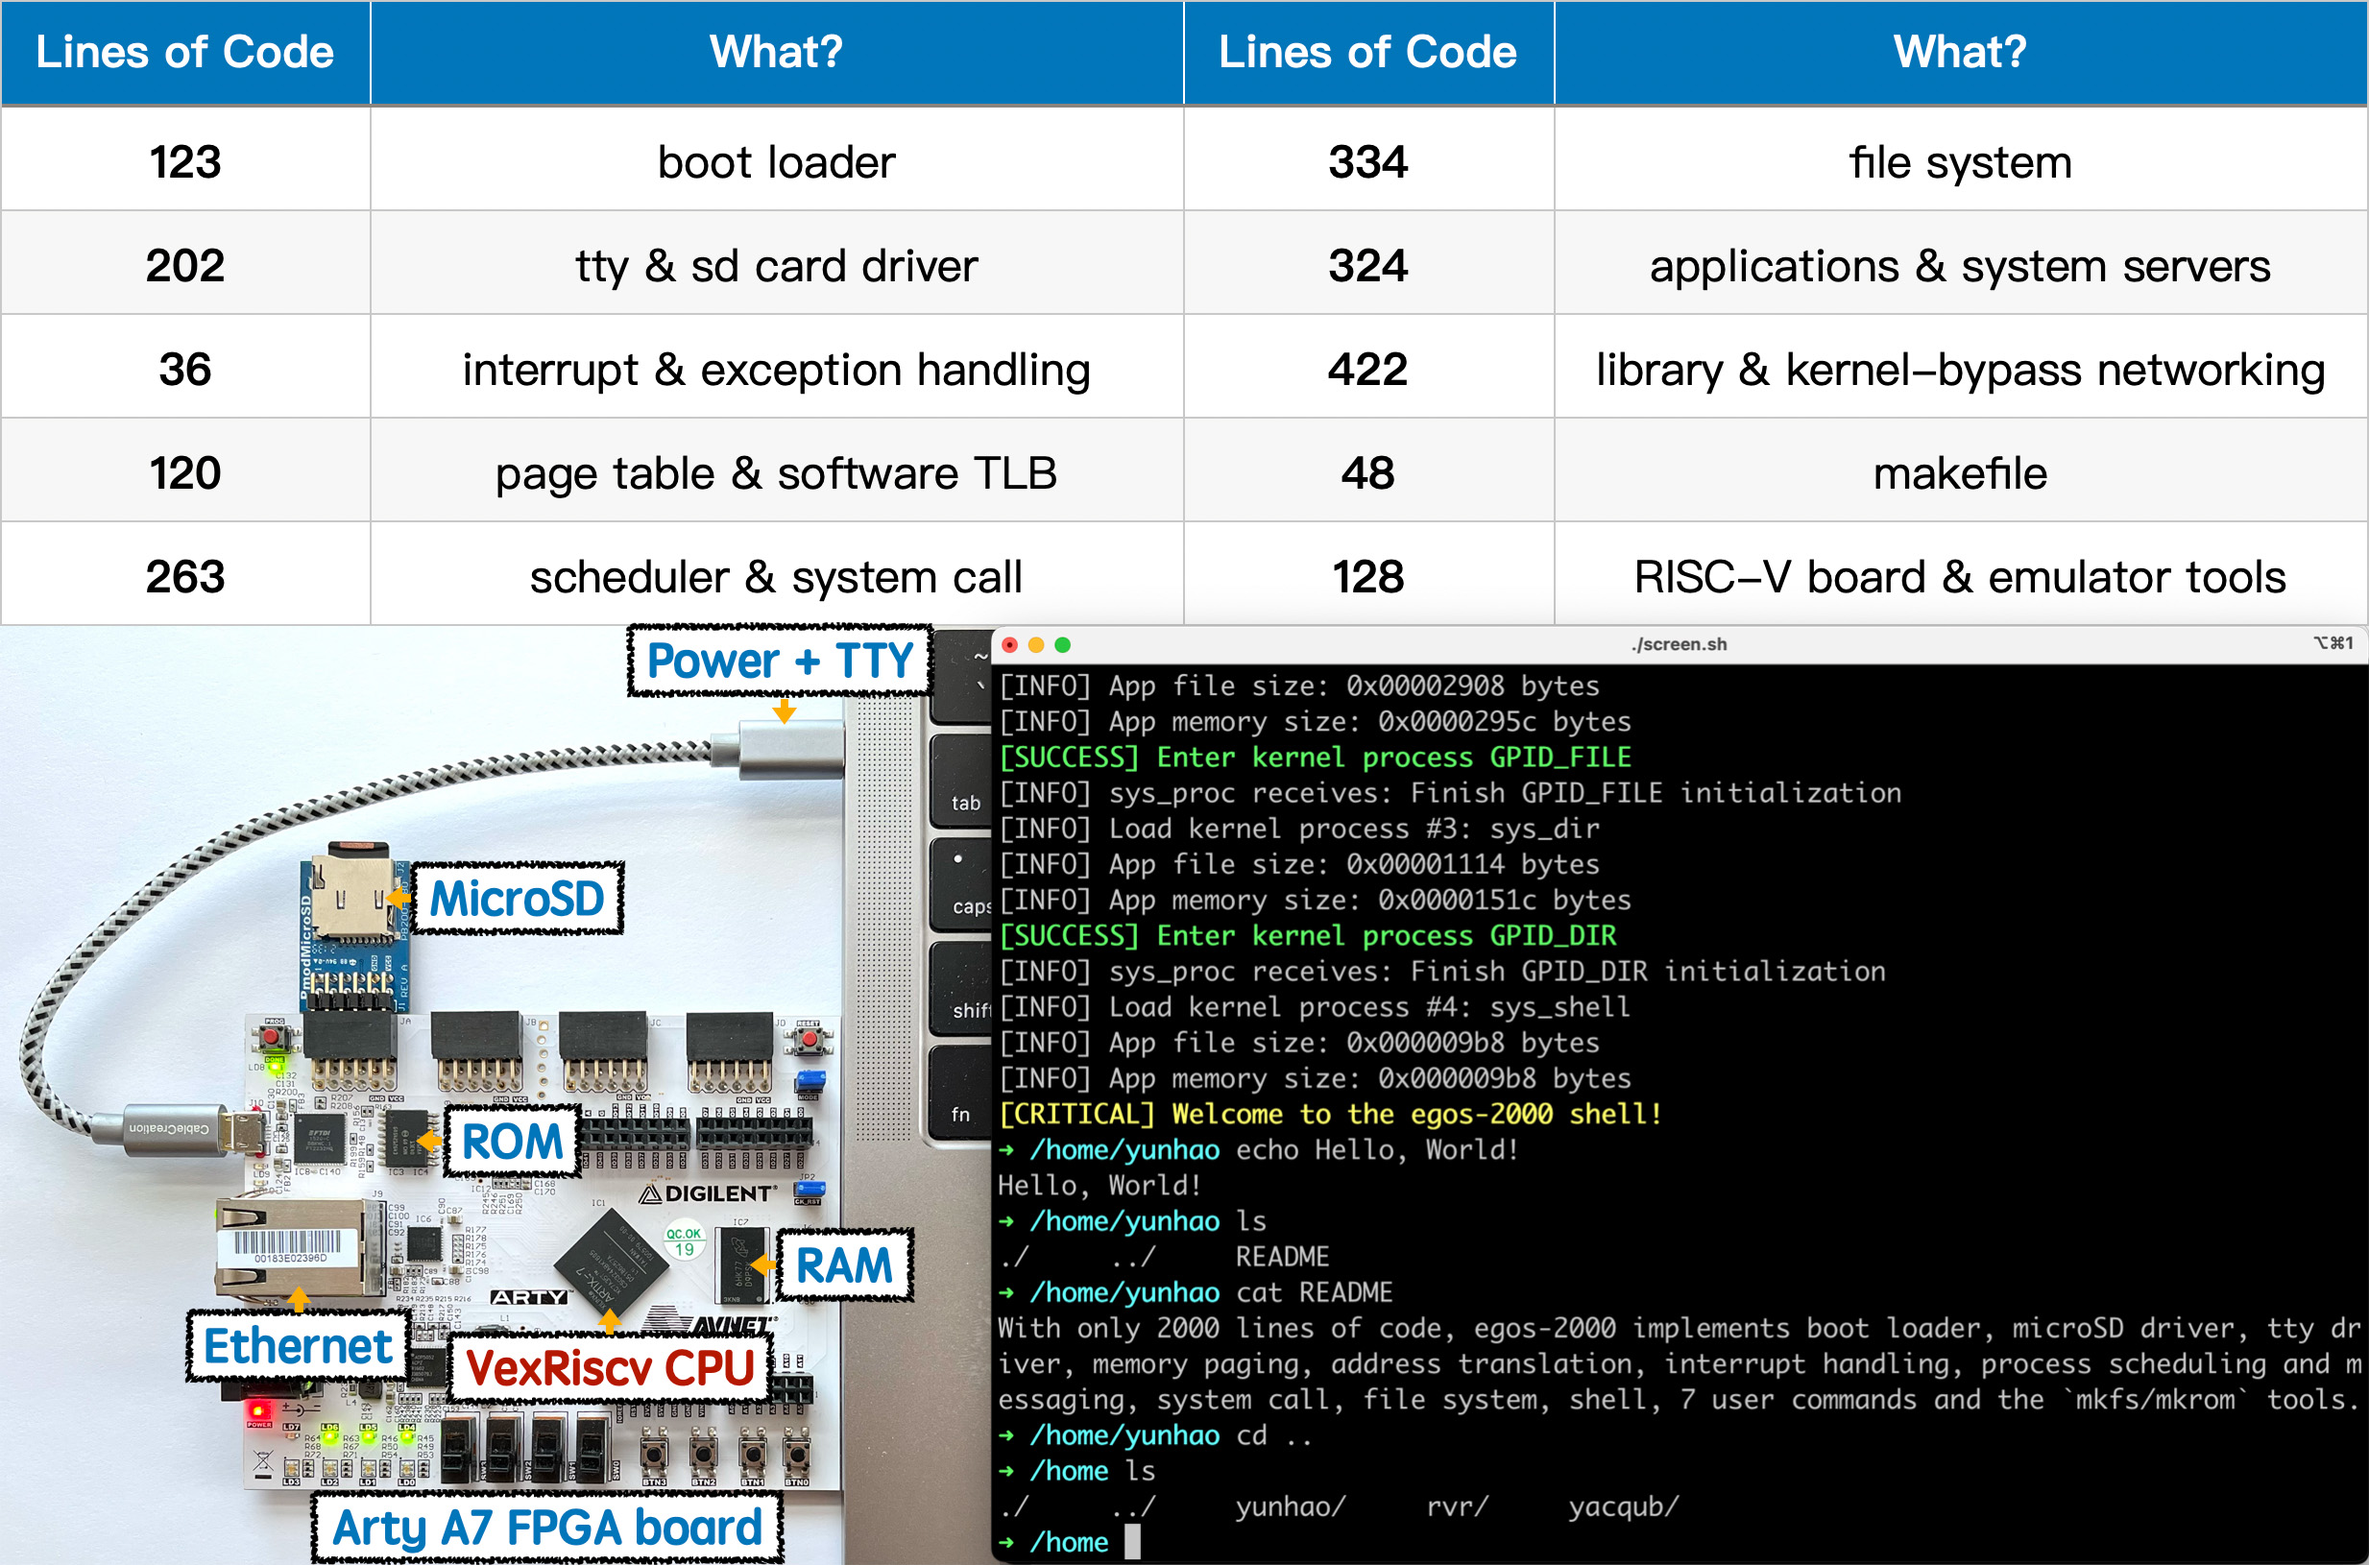
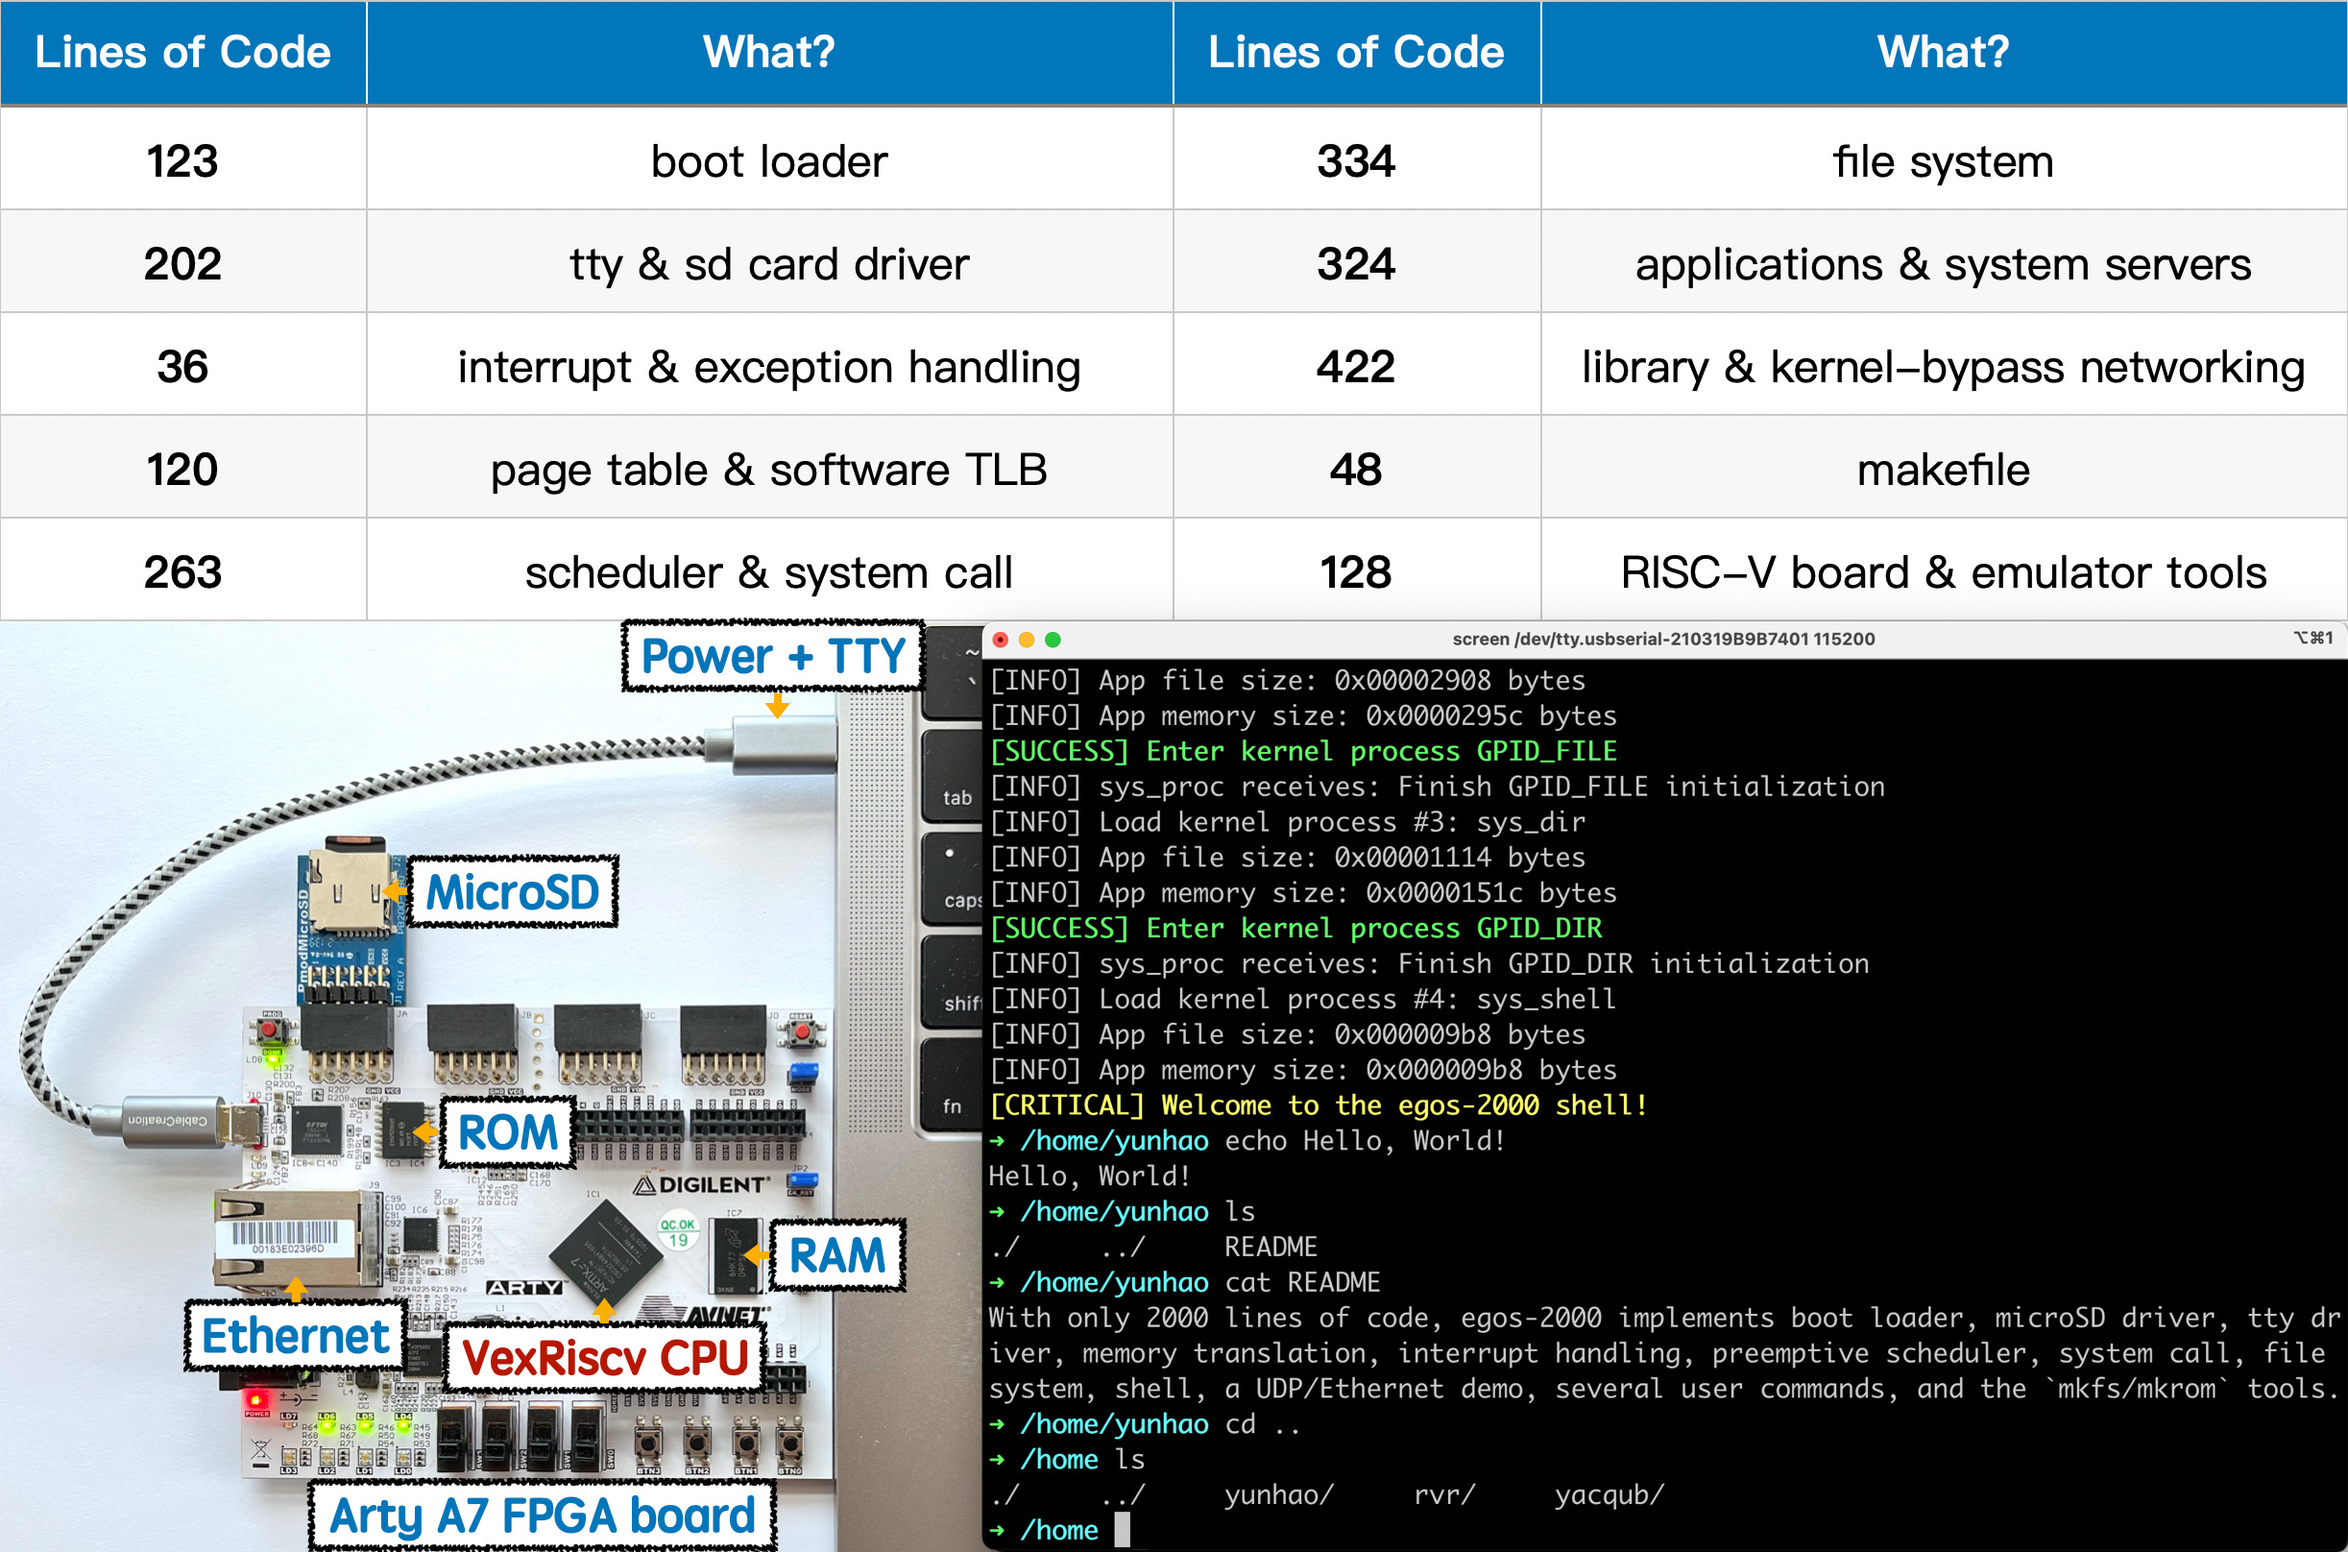
Cleanup

diff --git a/tools/mkfs.c b/tools/mkfs.c
@@ -28,9 +28,9 @@ char* egos_binaries[] = {"./qemu/egos.bin",
 
 /* Inode - File/Directory mappings:
 #0: /              #1: /home                #2: /home/yunhao  #3: /home/rvr
-#4: /home/yacqub   #5: /home/yunhao/README  #6: /bin          #7: /bin/echo
-#8: /bin/cat       #9: /bin/ls              #10:/bin/cd       #11:/bin/pwd
-#12:/bin/clock     #13:/bin/crash1          #14:/bin/crash2   #15:/bin/ult
+#4: /home/yacqub   #5: /home/yunhao/README  #6: /bin          #7: /bin/cat
+#8: /bin/cd        #9: /bin/clock           #10:/bin/crash1   #11:/bin/crash2
+#12:/bin/echo      #13:/bin/ls              #14:/bin/mt       #15:/bin/pwd
 #16:/bin/udp_hello
 */
 #define NINODE 17
@@ -40,17 +40,17 @@ char* contents[] = {
                     "./   2 ../   1 README   5 ",
                     "./   3 ../   1 ",
                     "./   4 ../   1 ",
-                    "With only 2000 lines of code, egos-2000 implements boot loader, microSD driver, tty driver, memory paging, address translation, interrupt handling, process scheduling and messaging, system call, file system, shell, 7 user commands and the `mkfs/mkrom` tools.",
-                    "./   6 ../   0 echo   7 cat   8 ls   9 cd  10 pwd  11 clock  12 crash1  13 crash2  14 ult  15 udp_hello  16",
-                    "#../build/release/echo.elf",
+                    "With only 2000 lines of code, egos-2000 implements boot loader, microSD driver, tty driver, memory translation, interrupt handling, preemptive scheduler, system call, file system, shell, a UDP/Ethernet demo, several user commands, and the `mkfs/mkrom` tools.",
+                    "./   6 ../   0 cat   7 cd   8 clock    9 crash1  10 crash2  11 echo  12 ls  13 mt  14 pwd  15 udp_hello  16",
                     "#../build/release/cat.elf",
-                    "#../build/release/ls.elf",
                     "#../build/release/cd.elf",
-                    "#../build/release/pwd.elf",
                     "#../build/release/clock.elf",
                     "#../build/release/crash1.elf",
                     "#../build/release/crash2.elf",
-                    "#../build/release/ult.elf",
+                    "#../build/release/echo.elf",
+                    "#../build/release/ls.elf",
+                    "#../build/release/mt.elf",
+                    "#../build/release/pwd.elf",
                     "#../build/release/udp_hello.elf"};
 
 char exec[EGOS_BIN_MAX_NBLOCK * BLOCK_SIZE], fs[FILE_SYS_DISK_SIZE];

diff --git a/apps/user/mt.c b/apps/user/mt.c
@@ -2,9 +2,9 @@
  * (C) 2024, Cornell University
  * All rights reserved.
  *
- * Description: user-level, non-preemptive threading
- * Students will implement a minimal threading package;
- * Then spawn multiple threads for the producer/consumer problem.
+ * Description: non-preemptive multi-threading (mt)
+ * Students will implement a minimal threading package and
+ * then spawn multiple threads for the producer/consumer problem.
  */
 
 #include "app.h"
